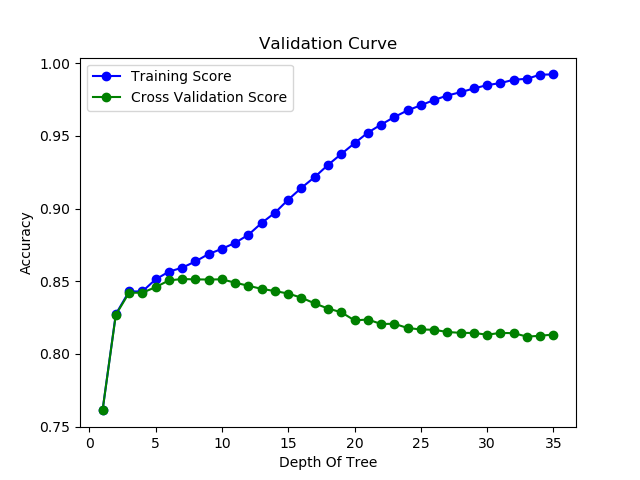
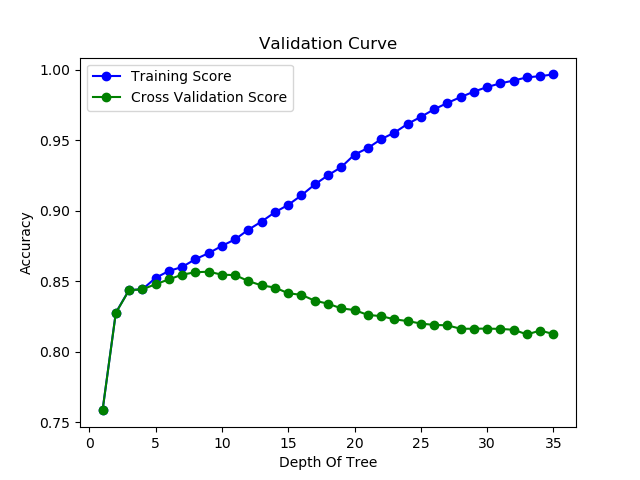
Update

diff --git a/HW1/SupervisedLearning_bkp.py b/HW1/SupervisedLearning_bkp.py
@@ -2,13 +2,18 @@ import pandas as pd
 import numpy as np
 import math
 import time
+import graphviz
 import matplotlib.pyplot as plt
-from sklearn.tree import DecisionTreeClassifier
-from sklearn.model_selection import train_test_split, learning_curve, cross_val_score, GridSearchCV
+from sklearn.tree import DecisionTreeClassifier, export_graphviz
+from sklearn.model_selection import train_test_split, learning_curve, validation_curve, cross_validate, cross_val_score, GridSearchCV
 from sklearn import metrics
 pd.options.mode.chained_assignment = None
 
-def loadAdultData(filename, col_names):
+def load_wine_data(filename, col_names):
+    df = pd.read_csv(filename, encoding='utf-8', header=None, names=col_names)
+    return df
+
+def load_adult_data(filename, col_names):
     df = pd.read_csv(filename, encoding='utf-8', header=None, names=col_names)
     df = df.dropna()
     features = ['age', 'workclass', 'fnlwgt', 'education', 'education_num', 'marital_status', 'occupation',
@@ -20,12 +25,36 @@ def loadAdultData(filename, col_names):
     y.replace(' >50K', 1, inplace=True)
     return X, y
 
-def loadCarData(filename, col_names):
+def load_car_data(filename, col_names):
     df = pd.read_csv(filename, encoding='utf-8', header=None, names=col_names)
     df = df.dropna()
     features = ['buying_cost', 'maintenance_cost', 'doors', 'persons', 'lug_boot', 'safety']
     label = ['class']
     X = pd.get_dummies(df[features])
+    '''
+    X = df[features]
+    X['buying_cost'].replace('low', 1, inplace=True)
+    X['buying_cost'].replace('med', 0.7, inplace=True)
+    X['buying_cost'].replace('high', 0.4, inplace=True)
+    X['buying_cost'].replace('vhigh', 0.1, inplace=True)
+    X['maintenance_cost'].replace('low', 1, inplace=True)
+    X['maintenance_cost'].replace('med', 0.7, inplace=True)
+    X['maintenance_cost'].replace('high', 0.4, inplace=True)
+    X['maintenance_cost'].replace('vhigh', 0.1, inplace=True)
+    X['doors'].replace('5more', 1, inplace=True)
+    X['doors'].replace('4', 0.7, inplace=True)
+    X['doors'].replace('3', 0.4, inplace=True)
+    X['doors'].replace('2', 0.1, inplace=True)
+    X['persons'].replace('more', 1, inplace=True)
+    X['persons'].replace('4', 0.5, inplace=True)
+    X['persons'].replace('2', 0.1, inplace=True)
+    X['lug_boot'].replace('big', 1, inplace=True)
+    X['lug_boot'].replace('med', 0.5, inplace=True)
+    X['lug_boot'].replace('small', 0.1, inplace=True)
+    X['safety'].replace('high', 1, inplace=True)
+    X['safety'].replace('med', 0.5, inplace=True)
+    X['safety'].replace('low', 0.1, inplace=True)
+    '''
     y = df[label]
     y.replace('unacc', 1, inplace=True)
     y.replace('acc', 2, inplace=True)
@@ -40,7 +69,7 @@ def gridSearch(grid_param, clf, X, y, scoring, dataset):
     grid_search.fit(X, y)
     return grid_search.best_params_, grid_search.best_estimator_, grid_search.best_score_
 
-def decisionTree(clf, X_train, X_test, y_train, y_test):
+def decisionTree(clf, depth, X_train, X_test, y_train, y_test, dataset):
     dt_learn_start_tm = time.time()
     clf = clf.fit(X_train, y_train)
     dt_learn_end_tm = time.time()
@@ -55,41 +84,24 @@ def decisionTree(clf, X_train, X_test, y_train, y_test):
     dt_query_tm_train = dt_query_end_tm_train - dt_query_start_tm_train
     rmse = math.sqrt(metrics.mean_squared_error(y_test, y_pred))
     rmse_train = math.sqrt(metrics.mean_squared_error(y_train, y_pred_train))
-    return y_pred, y_pred_train, dt_learn_tm, dt_query_tm, dt_query_tm_train, rmse, rmse_train
-
-def runCurves(depth, X_train, y_train, dataset):
-    print('Calculating Learning Curve Accuracy for ' + dataset)
-    train_sizes, train_scores_lc, test_scores_lc, fit_times_lc, _ = learning_curve(
-        DecisionTreeClassifier(random_state=99), X_train, y_train, cv=5,
-        scoring='accuracy', n_jobs=-1,
-        train_sizes=np.linspace(0.1, 1.0, 30), shuffle=True,
-        return_times=True)
+    print('Calculating learning curve for ' + dataset)
+    train_sizes, train_scores_lc, test_scores_lc, fit_times_lc, _ = learning_curve(DecisionTreeClassifier(random_state=903476681), X_train, y_train, cv=5,
+                                                                                   scoring='accuracy', n_jobs=-1,
+                                                                                   train_sizes=np.linspace(0.1, 1.0, 30),
+                                                                                   return_times=True)
     train_scores_lc_mean = np.mean(train_scores_lc, axis=1)
     test_scores_lc_mean = np.mean(test_scores_lc, axis=1)
     fit_times_lc_mean = np.mean(fit_times_lc, axis=1)
-    savefile = 'plots/DT_Learning_Curve_Accuracy_' + dataset + '.png'
+    savefile = 'plots/DT_Learning_Curve_' + dataset + '.png'
     label1, label2, title, xlabel, ylabel = ['Training Score', 'Cross Validation Score', 'Learning Curve',
-                                             'Training Size', 'Accuracy']
-    print('Started plotting Learning Curve Accuracy for decision tree for ' + dataset)
-    plotLearningCurve(train_sizes, train_scores_lc_mean, test_scores_lc_mean,
+                                                       'Training Examples', 'Accuracy']
+    print('Started plotting Learning Curve for decision tree for ' + dataset)
+    plot_learning_curve(train_sizes, train_scores_lc_mean, test_scores_lc_mean,
                         label1, label2, title, xlabel, ylabel, savefile)
-    print('Finished plotting Learning Curve Accuracy for decision tree for ' + dataset)
-    print("--------------------------------")
-    print('Calculating Learning Curve MSE for ' + dataset)
-    train_sizes, train_scores_lc, test_scores_lc = learning_curve(
-        DecisionTreeClassifier(random_state=99), X_train, y_train, cv=5,
-        scoring='neg_mean_squared_error', n_jobs=-1,
-        train_sizes=np.linspace(0.1, 1.0, 30), shuffle=True)
-    train_scores_lc_mean = -np.mean(train_scores_lc, axis=1)
-    test_scores_lc_mean = -np.mean(test_scores_lc, axis=1)
-    savefile = 'plots/DT_Learning_Curve_MSE_' + dataset + '.png'
-    label1, label2, title, xlabel, ylabel = ['Training Error', 'Cross Validation Error', 'Learning Curve',
-                                             'Training Size', 'MSE']
-    print('Started plotting Learning Curve MSE decision tree for ' + dataset)
-    plotLearningCurve(train_sizes, train_scores_lc_mean, test_scores_lc_mean,
-                      label1, label2, title, xlabel, ylabel, savefile)
-    print('Finished plotting Learning Curve MSE decision tree for ' + dataset)
-    print("--------------------------------")
+    print('Finished plotting Learning Curve for decision tree for ' + dataset)
+    # print('Trains Scores lc: ', train_scores_lc)
+    # print('Train Scores lc mean: ', train_scores_lc_mean)
+    # print('Test Scores lc mean: ', test_scores_lc_mean)
     print('Calculating cross val score for incremental tree depth for ' + dataset)
     scores_cv = []
     scores_mean_cv = []
@@ -108,10 +120,11 @@ def runCurves(depth, X_train, y_train, dataset):
     label1, label2, title, xlabel, ylabel = ['Training Score', 'Cross Validation Score', 'Validation Curve',
                                              'Depth Of Tree', 'Accuracy']
     print('Started plotting Validation Curve for decision tree for ' + dataset)
-    plotValidationCurve(depth, scores_mean_cv, train_acc_cv, label1, label2, title, xlabel, ylabel, savefile)
+    plot_validation_curve(depth, scores_mean_cv, train_acc_cv, label1, label2, title, xlabel, ylabel, savefile)
     print('Finished plotting Validation Curve for decision tree for ' + dataset)
+    return y_pred, y_pred_train, dt_learn_tm, dt_query_tm, dt_query_tm_train, rmse, rmse_train
 
-def plotLearningCurve(train_sizes, train_scores_mean, test_scores_mean,
+def plot_learning_curve(train_sizes, train_scores_mean, test_scores_mean,
                         label1, label2, title, xlabel, ylabel, savefile):
     plt.figure()
     plt.title(title)
@@ -121,11 +134,12 @@ def plotLearningCurve(train_sizes, train_scores_mean, test_scores_mean,
     plt.plot(train_sizes, test_scores_mean, 'o-', label=label2, color='green')
     plt.legend(loc='best')
     plt.savefig(savefile)
+    #plt.show()
 
-def plotFitTimes():
+def plot_fit_times():
     return None
 
-def plotValidationCurve(depth, scores_mean_cv, train_acc_cv, label1, label2, title, xlabel, ylabel, savefile):
+def plot_validation_curve(depth, scores_mean_cv, train_acc_cv, label1, label2, title, xlabel, ylabel, savefile):
     plt.figure()
     plt.title(title)
     plt.xlabel(xlabel)
@@ -134,50 +148,52 @@ def plotValidationCurve(depth, scores_mean_cv, train_acc_cv, label1, label2, tit
     plt.plot(depth, scores_mean_cv, 'o-', label=label2, color='green')
     plt.legend(loc='best')
     plt.savefig(savefile)
+    #plt.show()
     return None
 
 if __name__ == '__main__':
     col_names_car = ['buying_cost', 'maintenance_cost', 'doors', 'persons', 'lug_boot', 'safety', 'class']
-    X_car, y_car = loadCarData('data/car_evaluation/car_data.csv', col_names_car)
+    X_car, y_car = load_car_data('data/car_evaluation/car_data.csv', col_names_car)
     col_names_adult = ['age', 'workclass', 'fnlwgt', 'education', 'education_num', 'marital_status', 'occupation',
                 'relationship', 'race', 'sex', 'capital_gain', 'capital_loss', 'hours_per_week', 'native_country', 'label']
-    X_adult, y_adult = loadAdultData('data/adult/adult_data.csv', col_names_adult)
+    X_adult, y_adult = load_adult_data('data/adult/adult_data.csv', col_names_adult)
     X_train_car, X_test_car, y_train_car, y_test_car = train_test_split(X_car, y_car, test_size=0.3,
-                                                                        random_state=99)
+                                                                        random_state=903476681)
     X_train_adult, X_test_adult, y_train_adult, y_test_adult = train_test_split(X_adult, y_adult, test_size=0.3,
-                                                                        random_state=99)
-    clf_DT = DecisionTreeClassifier(random_state=99)
-    y_pred, y_pred_train, dt_learn_tm, dt_query_tm, dt_query_tm_train, rmse, rmse_train = decisionTree(clf_DT,
+                                                                        random_state=903476681)
+    clf_DT = DecisionTreeClassifier(random_state=903476681)
+    depth = range(1, 36)
+    y_pred, y_pred_train, dt_learn_tm, dt_query_tm, dt_query_tm_train, rmse, rmse_train = decisionTree(clf_DT, depth,
                                                                                                        X_train_car,
                                                                                                        X_test_car,
                                                                                                        y_train_car,
-                                                                                                       y_test_car)
-    print("--------------------------------")
-    print("--------------------------------")
+                                                                                                       y_test_car,
+                                                                                                       dataset='car')
     print("Accuracy: Out Sample", metrics.accuracy_score(y_test_car, y_pred))
     print("Accuracy: In Sample", metrics.accuracy_score(y_train_car, y_pred_train))
     print("RMSE: Out Sample", rmse)
     print("RMSE: In Sample", rmse_train)
     print("Learning Time:", dt_learn_tm)
     print("Query Time:", dt_query_tm)
-    print("--------------------------------")
-    print("--------------------------------")
-    y_pred, y_pred_train, dt_learn_tm, dt_query_tm, dt_query_tm_train, rmse, rmse_train = decisionTree(clf_DT,
+    y_pred, y_pred_train, dt_learn_tm, dt_query_tm, dt_query_tm_train, rmse, rmse_train = decisionTree(clf_DT, depth,
                                                                                                        X_train_adult,
                                                                                                        X_test_adult,
                                                                                                        y_train_adult,
-                                                                                                       y_test_adult)
+                                                                                                       y_test_adult,
+                                                                                                       dataset='adult')
     print("Accuracy: Out Sample", metrics.accuracy_score(y_test_adult, y_pred))
     print("Accuracy: In Sample", metrics.accuracy_score(y_train_adult, y_pred_train))
     print("RMSE: Out Sample", rmse)
     print("RMSE: In Sample", rmse_train)
     print("Learning Time:", dt_learn_tm)
     print("Query Time:", dt_query_tm)
-    print("--------------------------------")
-    print("--------------------------------")
-    depth = range(1, 36)
-    runCurves(depth, X_train_car, y_train_car, dataset='car')
-    runCurves(depth, X_train_adult, y_train_adult, dataset='adult')
+    '''
+    class_name = ['acc', 'unacc', 'vgood', 'good']
+    dot_data = export_graphviz(clf_DT, out_file=None,
+                               feature_names=features, class_names=class_name,
+                               filled=True, rounded=True, special_characters=True)
+    graph = graphviz.Source(dot_data).render('car_eval', format='png')
+    '''
     grid_param = {'max_depth': depth, 'criterion': ['gini', 'entropy']}
     grid_best_params_car, grid_best_estimator_car, grid_best_score_car = gridSearch(grid_param, clf_DT, X_train_car, y_train_car, scoring='accuracy', dataset='car')
     print(grid_best_params_car, grid_best_estimator_car, grid_best_score_car)
@@ -187,5 +203,4 @@ if __name__ == '__main__':
     best_params_adult = {'max_depth': grid_best_params_adult['max_depth'], 'criterion': grid_best_params_adult['criterion']}
     print(best_params_car)
     print(best_params_adult)
-
 
